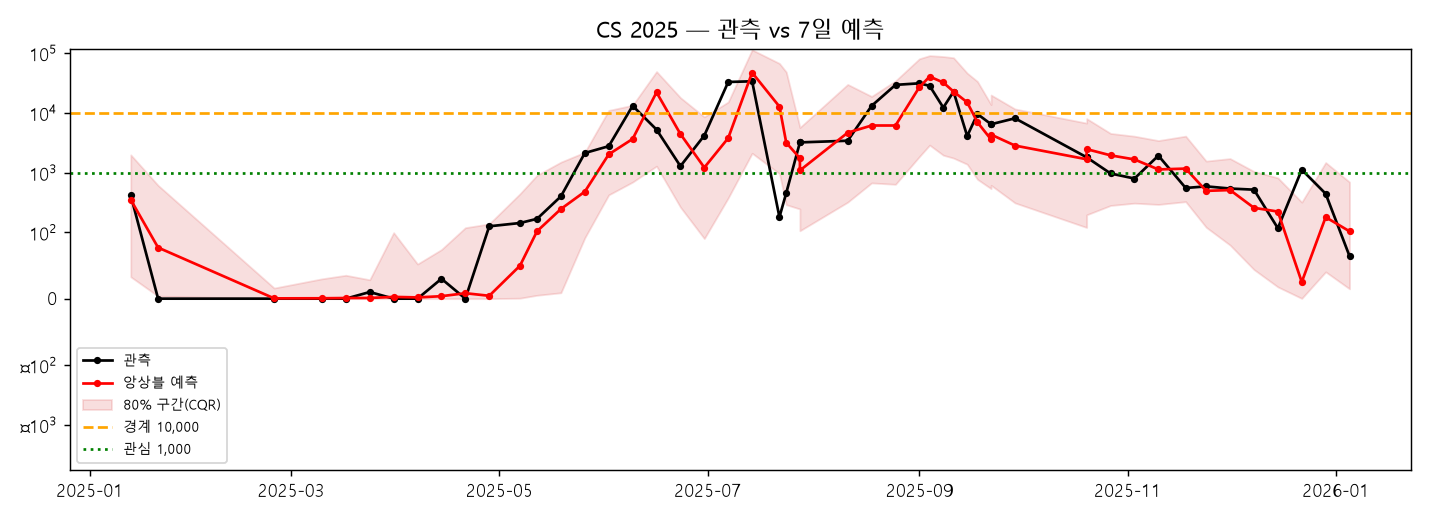
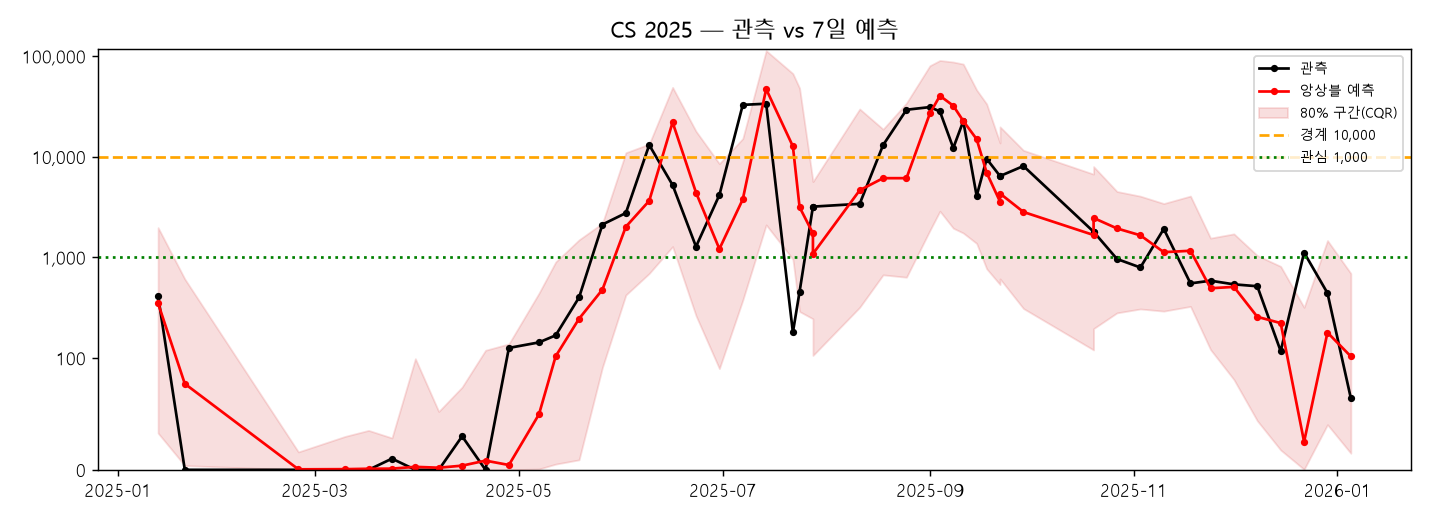
fix(eval): 지점별 예측 그림 음수 눈금 제거, 설비 배치 우선순위 표를 현행 규칙으로 재생성
- report.py: fig_pred_vs_obs_* 의 symlog 축 하한을 0 으로 고정하고 눈금을 쉼표 정수로 표기
  (자동 여백이 만든 음수 눈금과 수학 기호 글리프 누락 □ 제거), MODELS_DIR 사용
- tbl_decision_demo.md: 우선순위 절이 예전 규칙(p × 취수 가중치)으로 남아 있던 것을
  현행 decision.deployment_priority(단계 → p_alert, 가중치 없음)로 재생성. 진입 사례 5건 수치는 동일
- decision.py·report.py 의 우선순위 설명 문구를 현행 규칙으로 정정
- 재실행 시 다른 표·CSV 는 바뀌지 않음(fig_shap_global 은 바이트만 소폭 변화)

Claude-Session: https://claude.ai/code/session_017ddh39e3MD6zytL8k6pS4n

diff --git a/src/algaecast/eval/report.py b/src/algaecast/eval/report.py
@@ -12,13 +12,14 @@ import pickle
 import warnings
 
 import matplotlib
+import matplotlib.ticker
 import numpy as np
 import pandas as pd
 import yaml
 from scipy import stats
 
 from algaecast.collect.nier_forecast import level_from_cells
-from algaecast.config import CONFIG_DIR, ROOT
+from algaecast.config import CONFIG_DIR, MODELS_DIR, ROOT
 from algaecast.eval import decision as DEC
 from algaecast.eval.metrics import (
     bootstrap_ci,
@@ -398,7 +399,7 @@ def main(argv: list[str] | None = None) -> int:
         "의사결정 변환 데모 — 진입 사례 설명 문장·설비 배치 우선순위",
         "## 진입 사례 5건 (2025)\n"
         + _md(pd.DataFrame(case_rows))
-        + "\n\n## 설비 배치 우선순위 (p_over_10k × 취수 가중치)\n"
+        + "\n\n## 설비 배치 우선순위 (단계 → p_alert 내림차순, 가중치 없음)\n"
         + _md(prio),
     )
 
@@ -414,6 +415,10 @@ def main(argv: list[str] | None = None) -> int:
         ax.axhline(10_000, ls="--", color="orange", label="경계 10,000")
         ax.axhline(1_000, ls=":", color="green", label="관심 1,000")
         ax.set_yscale("symlog", linthresh=100)
+        # 세포수는 0 이상이다. 자동 여백이 음수 눈금을 만들지 않게 하한을 0 으로 두고,
+        # 눈금은 천 단위 쉼표 정수로 표기한다(수학 기호 글리프 누락 방지).
+        ax.set_ylim(bottom=0)
+        ax.yaxis.set_major_formatter(matplotlib.ticker.FuncFormatter(lambda v, _: f"{v:,.0f}"))
         ax.set_title(f"{sid} 2025 — 관측 vs 7일 예측")
         ax.legend(fontsize=8)
         fig.tight_layout()
@@ -443,10 +448,10 @@ def main(argv: list[str] | None = None) -> int:
 def json_load_registry() -> dict:
     import json
 
-    reg = json.loads((ROOT / "models" / "registry.json").read_text(encoding="utf-8"))
+    reg = json.loads((MODELS_DIR / "registry.json").read_text(encoding="utf-8"))
     ver = reg["current"]["regression"]
     entry = next(e for e in reg["versions"] if e["name"] == "regression" and e["version"] == ver)
-    with (ROOT / entry["path"]).open("rb") as f:
+    with (MODELS_DIR / entry["name"] / entry["version"] / "model.pkl").open("rb") as f:
         return pickle.load(f)
 
 

diff --git a/src/algaecast/eval/decision.py b/src/algaecast/eval/decision.py
@@ -1,4 +1,4 @@
-"""의사결정 변환 (T5, docs/04 §7): SHAP 상위 3 → 그룹명 문장, 설비 배치 우선순위(p_over_10k × 취수 가중치)."""
+"""의사결정 변환 (T5, docs/04 §7): SHAP 상위 3 → 그룹명 문장, 설비 배치 우선순위(단계 → p_alert)."""
 
 from __future__ import annotations
 

diff --git a/reports/eval/tbl_decision_demo.md b/reports/eval/tbl_decision_demo.md
@@ -9,11 +9,11 @@
 | DCHN | 2025-07-28 | 23323.0 | 5606.029 | 0.549 | 주요 근거: 최근 남조류 추세(최근 측정 세포수) 상승 요인 36%, 기상(30일 적산 기온) 상승 요인 11%, 최근 남조류 추세(최근 4주 최대 세포수) 상승 요인 9% |
 | MGMR | 2025-07-28 | 24439.0 | 4904.233 | 0.575 | 주요 근거: 최근 남조류 추세(최근 측정 세포수) 상승 요인 21%, 기상(30일 적산 기온) 상승 요인 12%, 계절·지점 특성(조류 시즌 경과일) 상승 요인 10% |
 
-## 설비 배치 우선순위 (p_over_10k × 취수 가중치)
-| 순위 | 기준일 | station_id | 지점 | p_over_10k | 취수 가중치 | 우선도 | 취수능력(톤/일) | 권고 |
+## 설비 배치 우선순위 (단계 → p_alert 내림차순, 가중치 없음)
+| 순위 | 기준일 | station_id | 지점 | tier | p_over_10k | 우선도 | 취수능력(톤/일) | 권고 |
 |---|---|---|---|---|---|---|---|---|
-| 1 | 2025 각 지점 마지막 base_date | GJGR | 강정·고령 | 0.001 | 0.8 | 0.001 | 770000 | 통상 운영 |
-| 2 | 2025 각 지점 마지막 base_date | MGMR | 물금·매리 | 0.001 | 1.0 | 0.001 | 840000 | 통상 운영 |
-| 3 | 2025 각 지점 마지막 base_date | CS | 칠서 | 0.001 | 0.5 | 0.0 | 440000 | 통상 운영 |
-| 4 | 2025 각 지점 마지막 base_date | DCHN | 회남 | 0.001 | 0.7 | 0.0 | 1350000 | 통상 운영 |
-| 5 | 2025 각 지점 마지막 base_date | HP | 해평 | 0.001 | 0.5 | 0.0 | 464000 | 통상 운영 |
+| 1 | 2025 각 지점 마지막 base_date | GJGR | 강정·고령 | normal | 0.001 | 0.001 | 770000 | 통상 운영 |
+| 2 | 2025 각 지점 마지막 base_date | CS | 칠서 | normal | 0.001 | 0.001 | 440000 | 통상 운영 |
+| 3 | 2025 각 지점 마지막 base_date | MGMR | 물금·매리 | normal | 0.001 | 0.001 | 840000 | 통상 운영 |
+| 4 | 2025 각 지점 마지막 base_date | DCHN | 회남 | normal | 0.001 | 0.001 | 1350000 | 통상 운영 |
+| 5 | 2025 각 지점 마지막 base_date | HP | 해평 | normal | 0.001 | 0.001 | 464000 | 통상 운영 |
